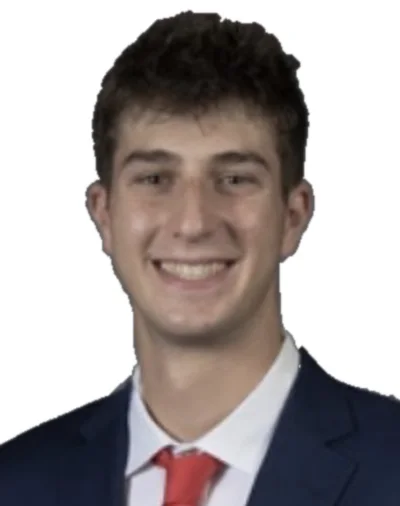
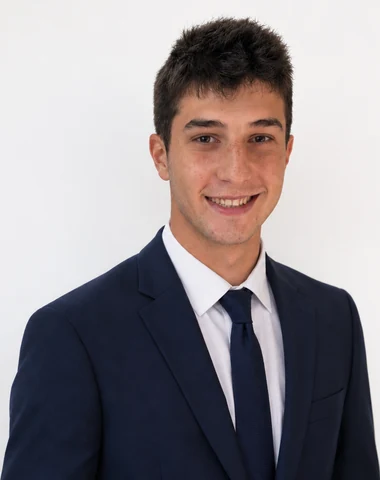
Add real headshots and bios to the founders section
Replaced the placeholder headshots with real photos of Harry and Corey
(cropped/resized to match the site's arched-frame ratio), sized the frame
up from 150x190 to 190x240 to give each card room, and added a short bio
under each name describing their real accounting background and what they
contribute at Fora Digital.

diff --git a/prospects/fora-digital/mockup/index.html b/prospects/fora-digital/mockup/index.html
@@ -283,19 +283,29 @@
       <div class="founder-grid">
         <article class="founder-card reveal" style="--i:0">
           <div class="monogram monogram-photo">
-            <img src="assets/harry.webp?v=4" width="150" height="190" loading="lazy"
+            <img src="assets/harry.webp?v=5" width="190" height="240" loading="lazy"
                  alt="Harry Foodim, co-owner of Fora Digital LLC">
           </div>
           <h3>Harry Foodim</h3>
           <p class="kicker role">Co-Owner</p>
+          <p class="founder-bio">Harry is an Accounting major at Ohio State University. He
+            gained hands-on experience preparing individual and small-business tax returns
+            for a local CPA practice. At Fora Digital, he's heavily involved in the
+            AI-driven side of building each site, from generation through design.</p>
         </article>
         <article class="founder-card reveal" style="--i:1">
           <div class="monogram monogram-photo">
-            <img src="assets/corey.webp" width="150" height="190" loading="lazy"
+            <img src="assets/corey.webp?v=5" width="190" height="240" loading="lazy"
                  alt="Corey Rapkin, co-owner of Fora Digital LLC">
           </div>
           <h3>Corey Rapkin</h3>
           <p class="kicker role">Co-Owner</p>
+          <p class="founder-bio">Corey is an Accounting student at the University of Georgia.
+            He gained hands-on experience in fund accounting through an internship focused
+            on private equity fund structures, including net asset value calculations,
+            capital call and distribution processing, and investor reporting. At Fora
+            Digital, he combines that financial background with a passion for design,
+            overseeing the company's finances and design direction.</p>
         </article>
       </div>
     </div>

diff --git a/prospects/fora-digital/mockup/style.css b/prospects/fora-digital/mockup/style.css
@@ -362,11 +362,14 @@ h1,h2,h3{font-family:var(--serif);font-weight:600;line-height:var(--lh-display);
 .founder-grid{display:grid;grid-template-columns:1fr 1fr;gap:var(--space-5)}
 .founder-card h3{font-size:var(--fs-h3);margin-bottom:2px}
 .founder-card .role{display:block;margin-bottom:var(--space-2)}
-.founder-card p{color:var(--stone);margin-bottom:var(--space-2)}
+.founder-bio{
+  color:color-mix(in srgb,var(--ink) 62%,var(--stone) 38%);
+  line-height:1.55;margin-bottom:var(--space-2);max-width:42ch;
+}
 .monogram{
-  width:150px;height:190px;border:1px solid var(--line);background:var(--paper);
+  width:190px;height:240px;border:1px solid var(--line);background:var(--paper);
   border-radius:999px 999px var(--radius) var(--radius);
-  display:grid;place-items:center;margin-bottom:var(--space-2);
+  display:grid;place-items:center;margin-bottom:var(--space-3);
 }
 .monogram span{font-family:var(--serif);font-size:3.5rem;color:var(--ink)}
 /* real founder photo drops into the same arched frame, filling it */
@@ -609,7 +612,7 @@ h1,h2,h3{font-family:var(--serif);font-weight:600;line-height:var(--lh-display);
   .mat{inset:16px}
   .cta-row{width:100%}
   .cta-row .btn{width:100%;text-align:center}
-  .monogram{width:120px;height:150px}
+  .monogram{width:150px;height:190px}
   .monogram span{font-size:2.75rem}
   .contact-card .c-email{font-size:1.1rem}
 }
